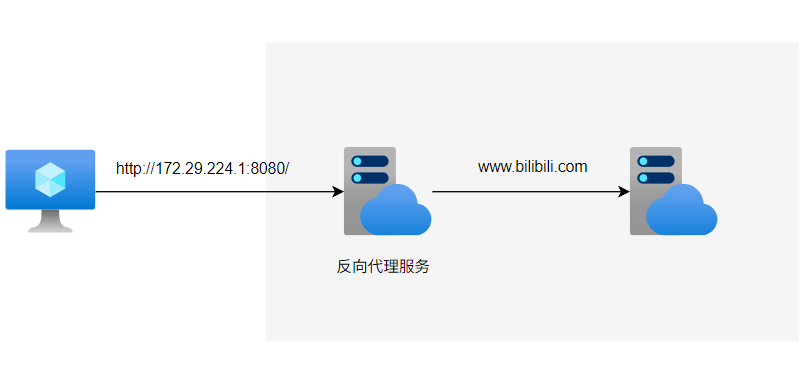
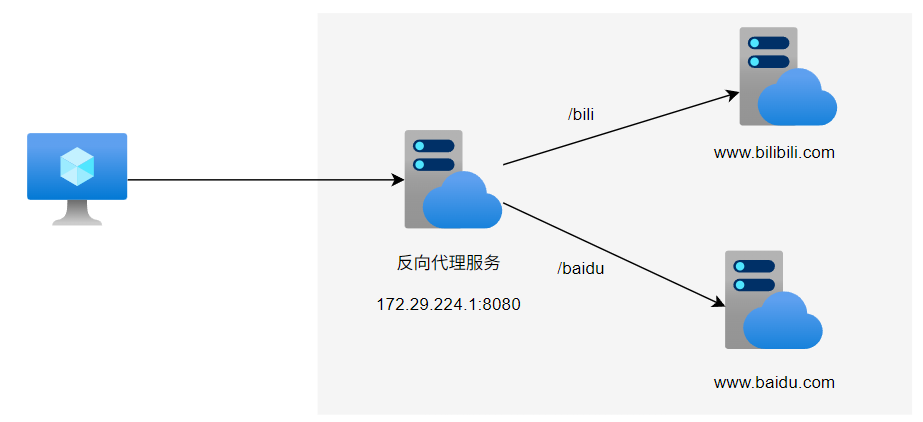
ngnix

diff --git a/docs/nginx/chapter/configure.md b/docs/nginx/chapter/configure.md
@@ -68,7 +68,8 @@ http://127.0.0.1:8080/
 
 # 反向代理
 
-![alt|c,50](../../image/nginx/example_reverse.png)
+## 代理服务
+
 
 ```conf
 worker_processes  auto;
@@ -94,12 +95,263 @@ http {
         server_name 172.29.224.1;
         listen 8080;
 
-        ; 代理服务 '/' 路由跳转到的链接
-        location / {
+        ; 代理服务 '/bili' 路由跳转到的链接
+        location /bili {
                 proxy_pass https://www.bilibili.com/;
+        }
+        location /baidu {
+                proxy_pass https://www.baidu.com/;
         }
     }
 }
 ```
+
+![alt|c,50](../../image/nginx/example_reverse.png)
  
-在浏览器中输入 `http://172.29.224.1:8080/` 便会通过 `nginx` 跳转到 `https://www.bilibili.com/`
+在浏览器中输入 `http://172.29.224.1:8080/bili` 便会通过 `nginx` 跳转到 `https://www.bilibili.com/`。
+
+
+## location
+
+通过 `location` 定义代理服务的 url 指向的服务
+
+```conf
+location [= | ~ | ~* | ^~] <url> {
+
+} 
+```
+
+路由规则
+- `=` : 代理服务的路由要与 `url` 完全匹配；匹配成功，则停止路由搜索
+- `^~` : 找到与 url 匹配度最高，然后转发请求，不支持正则表达式
+- `~` : `url` 包含正则表达式，区分大小写
+- `~*` : `url` 包含正则表达式，不区分大小写
+
+# 负载均衡
+
+## 代理服务
+
+
+```conf
+http {
+    ; 定义负载均衡，命名为 admin
+    upstream admin {
+        keepalive 32;  # 启用长连接
+        server 196.168.2.17:8080 weight=1 max_fails=3 fail_timeout=30s;
+        server 196.168.2.18:8080 weight=1 max_fails=3 fail_timeout=30s;
+        server 196.168.2.19:8080 weight=1 max_fails=3 fail_timeout=30s;
+    }
+
+    server {
+        ; 代理服务
+        server_name 172.29.224.1;
+        listen 8080;
+
+        location /admin {
+            proxy_pass http://admin ; 负载均衡的地址
+
+            proxy_http_version 1.1;
+            proxy_set_header Connection "";
+            proxy_set_header Host $host;
+            proxy_set_header X-Real-IP $remote_addr;
+            proxy_set_header X-Forwarded-For $proxy_add_x_forwarded_for;
+            
+            proxy_connect_timeout 3s;
+            proxy_read_timeout 10s;
+            proxy_send_timeout 10s;
+        }
+    }
+}
+```
+
+![alt|c,50](../../image/nginx/example_balance.png)
+
+通过 `upstream` 定义负载均衡服务集群，用户访问 `http://172.29.224.1:8080/admin/xxxx` 时，nginx 便会通过负载均衡节点将 `xxxx` 路由随机派发给 `admin` 集群下的服务进行处理
+
+
+## 策略
+
+- **轮询** 
+    默认方案，按请求的时间顺序逐一分配到不同的后端服务。若某一服务下线，就会被轮询踢出
+
+- **权重**
+    
+    权值 `weight` 越大的服务，分配到的请求越多
+    ```conf
+    upstream admin {
+        keepalive 32;  # 启用长连接
+        server 196.168.2.17:8080 weight=1;
+        server 196.168.2.18:8080 weight=2;
+        server 196.168.2.19:8080 weight=3;
+    }
+    ```
+
+- **ip_hash**
+
+    对用户 IP 建立一个 `hash` 值，然后根据 hash 去匹配后台服务，**保证同一`ip`用户多次请求均在同一服务器响应，可解决 `session` 问题**
+
+    ```conf
+    upstream admin {
+        ip_hash;
+        server 196.168.2.17:8080;
+        server 196.168.2.18:8080;
+        server 196.168.2.19:8080;
+    }
+    ```
+
+- **fair**
+
+    按照后端响应时间分配，响应时间越短优先分配，**即服务处理速度，能力强，那就多做些**
+
+    ```conf
+    upstream admin {
+        server 196.168.2.17:8080;
+        server 196.168.2.18:8080;
+        server 196.168.2.19:8080;
+        fair;
+    }
+    ```
+
+# 动静分离
+
+
+```conf
+server {
+    server_name 172.29.224.1;
+    listen 8080;
+    
+    # 静态html文件处理
+    location /html {
+        root   /data/; 
+        index  index.html index.htm;
+    }
+    
+    # 静态图片文件处理
+    location /images {
+        root   /data/;
+        autoindex on; 自动生成 index.html 网页目录
+    }
+    
+    # 动态请求转发给后端服务器
+    location /bili {
+            proxy_pass https://www.bilibili.com/;
+    }
+    location /baidu {
+            proxy_pass https://www.baidu.com/;
+    }
+}
+```
+
+![alt|c,50](../../image/nginx/example_static.png)
+
+```term
+triangle@LEARN:~$ tree /data
+/data
+    ├── html
+    │   └── index.html      # 主页面
+    └── images              # 图片
+        └── xxx.jpg
+```
+
+通过 `http://172.29.224.1:8080/images/xxx.jpg` 便可访问到 `xxx.jpg` 静态图片资源。**对于少量的静态资源就直接使用 `nginx` 服务实现即可，大批量的静态资源则需单独设置静态资源服务。**
+
+# 高可用
+
+> [!note]
+> 这里的高可用针对的是保证 `nginx` 代理服务，而非目标服务（目标服务通过负载均衡就已经保证了高可用）
+
+
+
+![alt|c,50](../../image/nginx/example_stable.png)
+
+
+主/备 Nginx 均会安装 `keepalived` (Linux 下一个轻量级别可实现服务或网络高可用解决方案)，用户通过虚拟IP地址（在 keepalived 中配置）访问 Ningix 代理服务，当主/备 Nginx 中某一台机器挂掉后，另外一台代理服务也能保证系统正常运行。
+
+```term
+triangle@LEARN:~$ sudo apt install openssl libssl-dev
+triangle@LEARN:~$ sudo apt install keepalived // 在 nginx 服务上安装 keepalive
+triangle@LEARN:~$ sudo cp /usr/share/doc/keepalived/samples/keepalived.conf.sample /etc/keepalived/keepalived.conf // 准备预设配置文件
+triangle@LEARN:~$ cat /etc/keepalived/keepalived.conf // 配置文件
+triangle@LEARN:~$ systemctl start keepalived  // 启动
+```
+
+- [keepalived.conf 详细配置](https://www.cnblogs.com/rexcheny/p/10778567.html)
+
+```conf
+# keepalived.conf
+
+# 全局配置
+global_defs {
+    # 邮件通知信息
+    notification_email {
+        # 定义收件人
+        acassen@firewall.loc
+    }
+    # 定义发件人
+    notification_email_from Alexandre.Cassen@firewall.loc
+    # SMTP服务器地址
+    smtp_server 192.168.200.1
+    smtp_connect_timeout 30
+
+    # 在 /etc/hosts 中定义的域名，例如 localhost
+    # 路由器标识，一般不用改，也可以写成每个主机自己的主机名
+    router_id LVS_DEVEL
+}
+
+# 定义用于实例执行的脚本内容，比如可以在线降低优先级，用于强制切换
+vrrp_script SCRIPT_NAME {
+    script  "/xxxx/nginx_check.sh"
+    interval 2 # 执行时间间隔，单位时间 s
+    weight -20 # 当前机器挂掉后，修改 vrrp_instance 中的 priority
+}
+
+# 一个vrrp_instance就是定义一个虚拟路由器的，实例名称
+vrrp_instance VI_1 {
+    # 定义初始状态
+    # - 主服务： MASTER
+    # - 备服务：BACKUP
+    state MASTER
+    # 如果你上面定义了MASTER,这里的优先级就需要定义的比其他的高
+    priority 100
+    # 心跳检测时间间隔，单位 s
+    advert_int 1
+    # 网卡，通过 ifconfig 查看，默认用来绑定虚拟 IP 网卡
+    interface ens33
+    # 虚拟路由ID，主/备服务需要设定一样
+    # 是虚拟MAC最后一段地址的信息，取值范围0-255
+    virtual_router_id 51
+    # 使用哪个虚拟MAC地址
+    use_vmac XX:XX:XX:XX:XX
+    # 通信认证机制，这里是明文认证还有一种是加密认证
+    authentication {
+        auth_type PASS
+        auth_pass 1111
+    }
+    # 设置虚拟VIP地址，一般就设置一个
+    virtual_ipaddress {
+        172.29.224.0
+    }
+
+}
+
+# 定义LVS集群服务，可以是IP+PORT；也可以是fwmark 数字，也就是防火墙规则
+# 所以通过这里就可以看出来keepalive天生就是为ipvs而设计的
+virtual_server 10.10.10.2 1358 {
+   .....
+}
+```
+
+- `nginx_check.sh` 的简单实现
+
+```bash
+#!/bin/bash
+# 计算 Nginx 进程数量
+n=`ps -C nginx --no-heading | wc -l`
+# 当 Nginx 停止后，停止 Keepalived 服务
+if [ $n -eq "0" ]; then
+    /usr/bin/systemctl stop keepalived
+fi
+```
+
+
+
